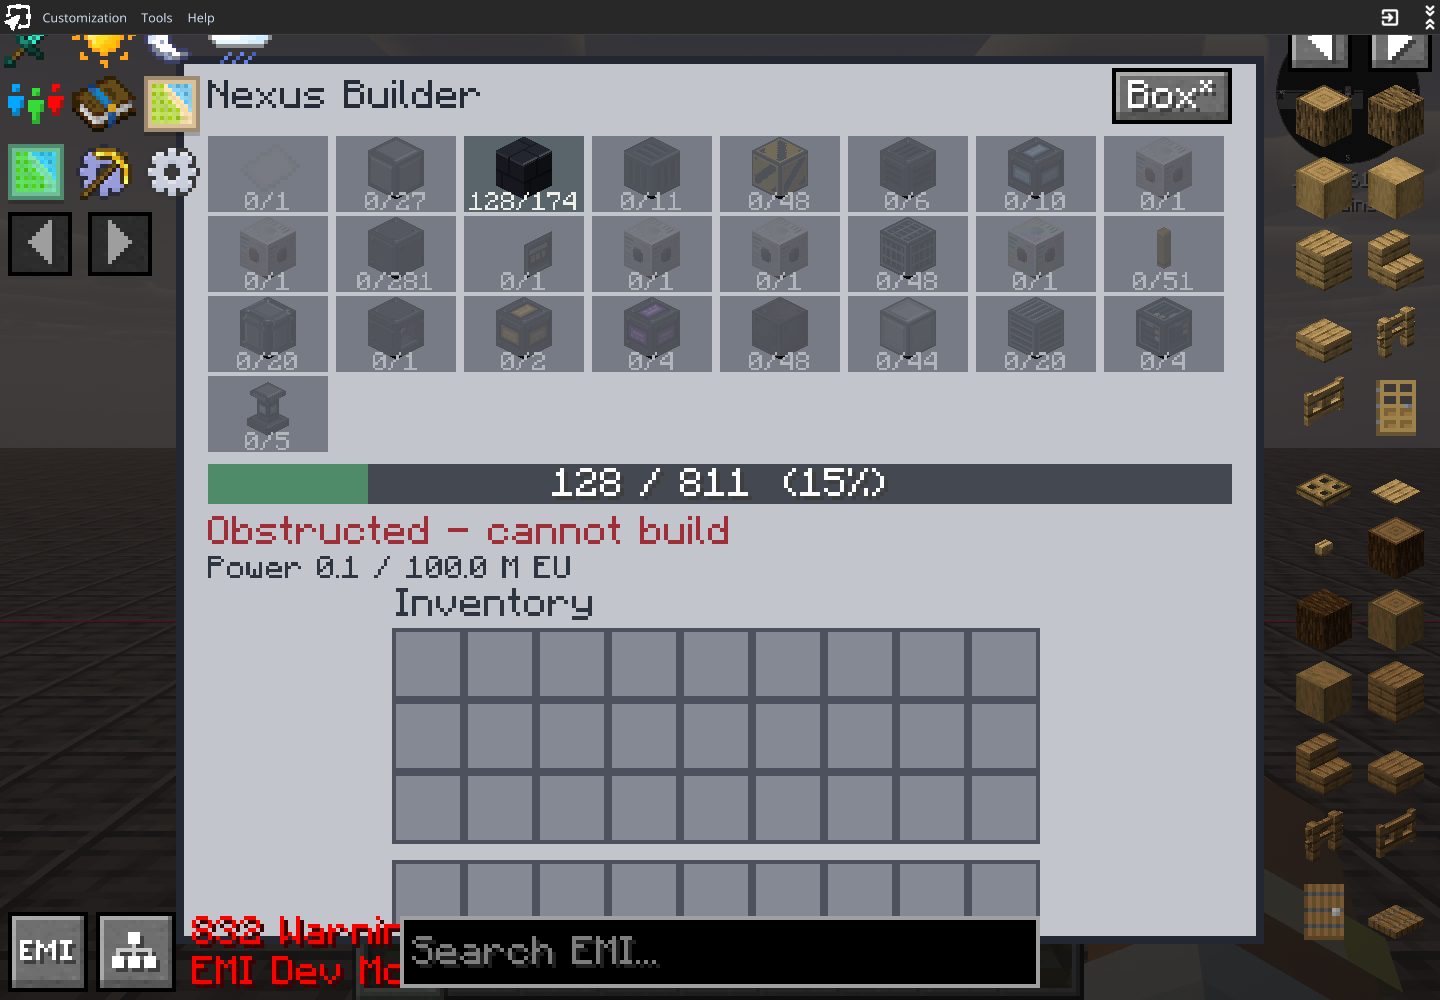
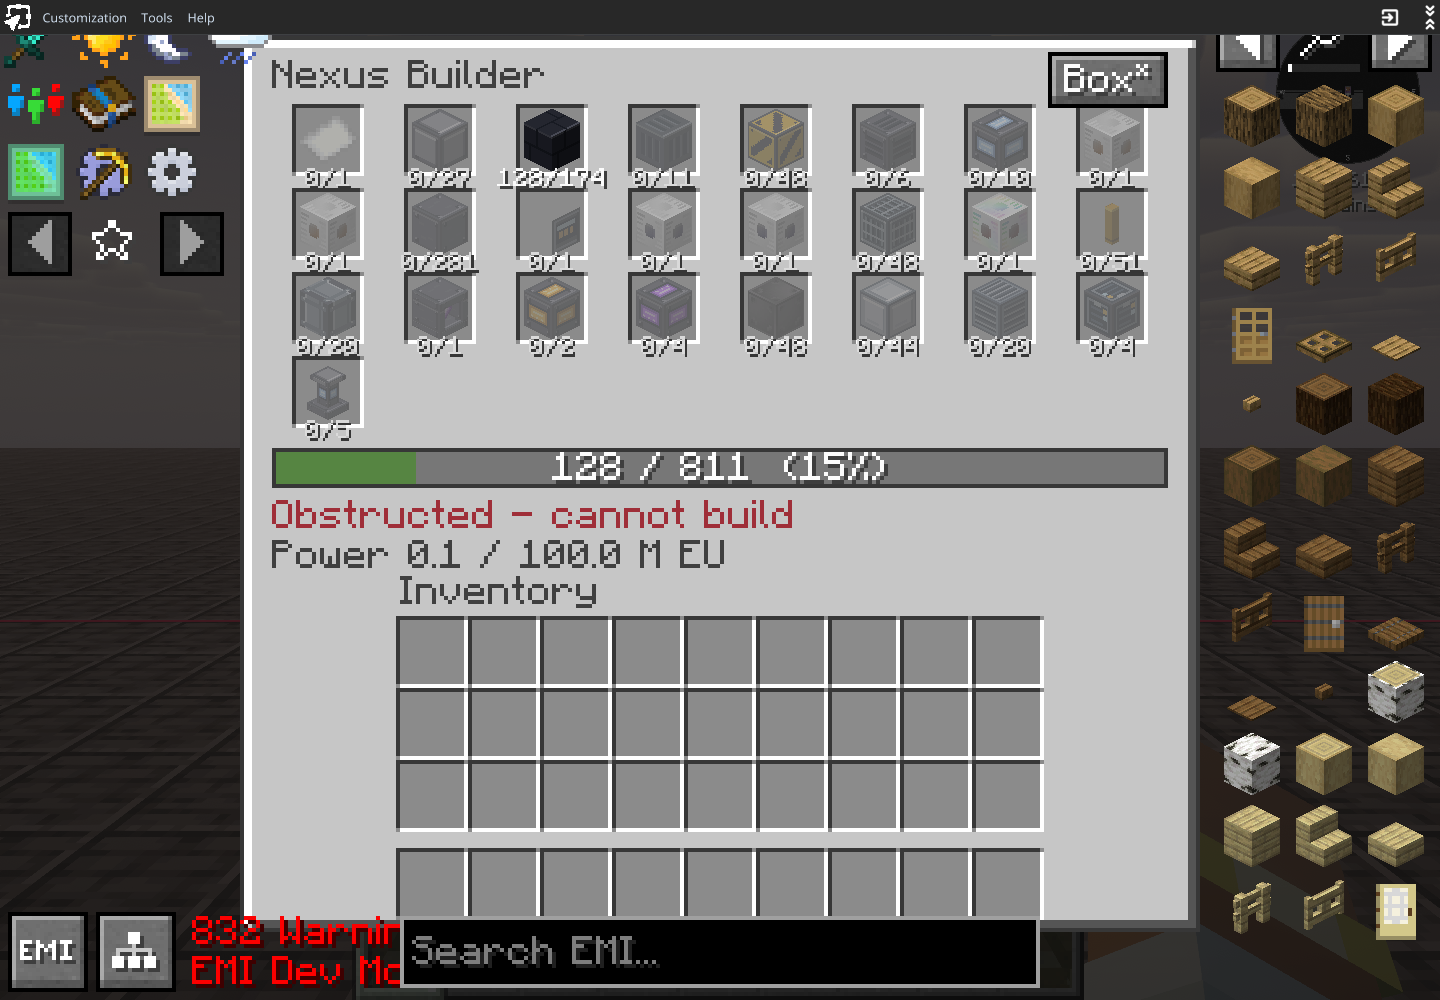
Style the Nexus Builder with vanilla inventory artwork

diff --git a/revoindustry/src/main/java/dk/revo/revoindustry/client/NexusBuilderScreen.java b/revoindustry/src/main/java/dk/revo/revoindustry/client/NexusBuilderScreen.java
@@ -1,9 +1,15 @@
 package dk.revo.revoindustry.client;
 
 import dk.revo.revoindustry.RevoIndustry;
-import dk.revo.revoindustry.nexus.*;
+import dk.revo.revoindustry.nexus.Nexus;
+import dk.revo.revoindustry.nexus.NexusBuilderMenu;
+import dk.revo.revoindustry.nexus.NexusConstruction;
+import dk.revo.revolib.client.VanillaMachineGui;
+import java.util.List;
+import java.util.Locale;
 import net.minecraft.client.gui.GuiGraphics;
-import net.minecraft.client.gui.components.*;
+import net.minecraft.client.gui.components.Button;
+import net.minecraft.client.gui.components.Tooltip;
 import net.minecraft.client.gui.screens.inventory.AbstractContainerScreen;
 import net.minecraft.network.chat.Component;
 import net.minecraft.world.entity.player.Inventory;
@@ -13,27 +19,138 @@ import net.neoforged.bus.api.SubscribeEvent;
 import net.neoforged.fml.common.EventBusSubscriber;
 import net.neoforged.neoforge.client.event.RegisterMenuScreensEvent;
 
-@EventBusSubscriber(modid=RevoIndustry.MOD_ID,bus=EventBusSubscriber.Bus.MOD,value=Dist.CLIENT)
+@EventBusSubscriber(modid = RevoIndustry.MOD_ID, bus = EventBusSubscriber.Bus.MOD, value = Dist.CLIENT)
 public final class NexusBuilderScreen extends AbstractContainerScreen<NexusBuilderMenu> {
- private Button build,preview;
- public NexusBuilderScreen(NexusBuilderMenu menu,Inventory inventory,Component title){super(menu,inventory,title);imageWidth=272;imageHeight=222;inventoryLabelX=55;inventoryLabelY=133;}
- @SubscribeEvent public static void screens(RegisterMenuScreensEvent e){e.register(Nexus.BUILDER_MENU.get(),NexusBuilderScreen::new);}
- @Override protected void init(){super.init();build=addRenderableWidget(Button.builder(Component.literal("Build"),b->minecraft.gameMode.handleInventoryButtonClick(menu.containerId,1)).bounds(leftPos+194,topPos+113,70,16).build());preview=addRenderableWidget(Button.builder(Component.literal("Box"),b->NexusBuilderOverlay.toggle(menu.pos)).bounds(leftPos+234,topPos+3,30,14).tooltip(Tooltip.create(Component.literal("Toggle the portal bounding box in the world"))).build());}
- private int cell(int x,int y){int col=(x-leftPos-8)/32,row=(y-topPos-20)/20;if(x<leftPos+8||x>=leftPos+264||y<topPos+20||y>=topPos+100||col<0||row<0)return -1;int i=row*8+col;return i<NexusConstruction.requirements().size()?i:-1;}
- @Override public boolean mouseClicked(double x,double y,int button){int i=cell((int)x,(int)y);if(i>=0&&(button==0||button==1)){minecraft.gameMode.handleInventoryButtonClick(menu.containerId,200+i);return true;}return super.mouseClicked(x,y,button);}
- @Override protected void renderBg(GuiGraphics g,float partial,int mx,int my){
-  g.fill(leftPos,topPos,leftPos+imageWidth,topPos+imageHeight,0xff232731);g.fill(leftPos+2,topPos+2,leftPos+270,topPos+220,0xffc3c5cc);
-  var needs=NexusConstruction.requirements();for(int i=0;i<needs.size();i++){
-   int x=leftPos+8+i%8*32,y=topPos+20+i/8*20;var need=needs.get(i);boolean filled=menu.stored(i)+menu.used(i)>0;g.fill(x,y,x+30,y+19,filled?0xff59656a:0xff777b85);
-   g.setColor(filled?1:.5f,filled?1:.5f,filled?1:.5f,filled?1:.3f);g.renderItem(new ItemStack(need.item()),x+7,y);g.flush();g.setColor(1,1,1,1);
-   if(!filled){g.pose().pushPose();g.pose().translate(0,0,250);g.fill(x+6,y,x+24,y+15,0xa0777b85);g.pose().popPose();}
-   String count=(menu.stored(i)+menu.used(i))+"/"+need.amount();g.pose().pushPose();g.pose().translate(x+15,y+14,300);g.pose().scale(.65f,.65f,1);g.drawString(font,count,-font.width(count)/2,0,filled?0xfff2f2ed:0xffb5b7bf,false);g.pose().popPose();
-  }
-  int total=menu.required(),supplied=menu.supplied(),width=256*supplied/Math.max(1,total);g.fill(leftPos+8,topPos+102,leftPos+264,topPos+112,0xff444851);g.fill(leftPos+8,topPos+102,leftPos+8+width,topPos+112,0xff4f8b69);String progress=supplied+" / "+total+"  ("+(100*supplied/Math.max(1,total))+"%)";g.drawCenteredString(font,progress,leftPos+136,topPos+103,0xffffffff);
-  String status=switch(menu.data.get(2)){case NexusConstruction.OBSTRUCTED->"Obstructed - cannot build";case NexusConstruction.UNLOADED->"Build area not loaded";case NexusConstruction.STRUCTURE->"Missing MI hatches";case NexusConstruction.PROGRAM->"Needs Construction Program";case NexusConstruction.MATERIALS->"Supply blueprint materials";case NexusConstruction.POWER->"Charge before building";case NexusConstruction.BUILDING->"Building "+(100*menu.data.get(0)/NexusConstruction.cells().size())+"%";case NexusConstruction.COMPLETE->"Construction complete";default->"Ready to build";};g.drawString(font,status,leftPos+8,topPos+115,menu.data.get(2)==NexusConstruction.OBSTRUCTED?0xffa12f39:0xff303641,false);
-  String power=String.format(java.util.Locale.ROOT,"Power %.1f / 100.0 M EU",menu.energy()/1_000_000d);g.pose().pushPose();g.pose().translate(leftPos+8,topPos+125,0);g.pose().scale(.8f,.8f,1);g.drawString(font,power,0,0,0xff303641,false);g.pose().popPose();
-  for(var slot:menu.slots){g.fill(leftPos+slot.x-1,topPos+slot.y-1,leftPos+slot.x+17,topPos+slot.y+17,0xff4d515d);g.fill(leftPos+slot.x,topPos+slot.y,leftPos+slot.x+16,topPos+slot.y+16,0xff858993);}
- }
- @Override protected void renderLabels(GuiGraphics g,int x,int y){g.drawString(font,title,8,6,0xff252c38,false);g.drawString(font,playerInventoryTitle,inventoryLabelX,inventoryLabelY,0xff303641,false);}
- @Override public void render(GuiGraphics g,int x,int y,float partial){build.visible=menu.supplied()==menu.required()&&menu.data.get(1)==0;build.active=menu.data.get(2)==NexusConstruction.READY;preview.setMessage(Component.literal(NexusBuilderOverlay.shown(menu.pos)?"Box*":"Box"));super.render(g,x,y,partial);renderTooltip(g,x,y);int i=cell(x,y);if(i>=0){var r=NexusConstruction.requirements().get(i);g.renderComponentTooltip(font,java.util.List.of(new ItemStack(r.item()).getHoverName(),Component.literal("Stored "+menu.stored(i)+" / "+r.amount()+" | Placed "+menu.used(i)),Component.literal("Deposit carried items; empty hand withdraws up to 64")),x,y);}}
+    private static final int LABEL = 0xff404040;
+    private static final int MATERIAL_X = 8;
+    private static final int MATERIAL_Y = 17;
+    private static final int COLUMNS = 8;
+    private static final int CELL_WIDTH = 28;
+    private static final int CELL_HEIGHT = 21;
+    private Button build;
+    private Button preview;
+
+    public NexusBuilderScreen(NexusBuilderMenu menu, Inventory inventory, Component title) {
+        super(menu, inventory, title);
+        imageWidth = NexusBuilderMenu.WIDTH;
+        imageHeight = NexusBuilderMenu.HEIGHT;
+        inventoryLabelX = NexusBuilderMenu.INVENTORY_X;
+        inventoryLabelY = NexusBuilderMenu.INVENTORY_Y - 11;
+    }
+
+    @SubscribeEvent
+    public static void screens(RegisterMenuScreensEvent event) {
+        event.register(Nexus.BUILDER_MENU.get(), NexusBuilderScreen::new);
+    }
+
+    @Override
+    protected void init() {
+        super.init();
+        // Leave room for the recipe viewer's bottom search bar at large GUI scales.
+        topPos = Math.max(9, topPos - 4);
+        build = addRenderableWidget(Button.builder(Component.literal("Build"),
+                button -> minecraft.gameMode.handleInventoryButtonClick(menu.containerId, 1))
+            .bounds(leftPos + imageWidth - 68, topPos + 114, 60, 17).build());
+        preview = addRenderableWidget(Button.builder(Component.literal("Box"),
+                button -> NexusBuilderOverlay.toggle(menu.pos))
+            .bounds(leftPos + imageWidth - 38, topPos + 4, 30, 14)
+            .tooltip(Tooltip.create(Component.literal("Toggle the portal bounding box in the world"))).build());
+    }
+
+    private int cell(int x, int y) {
+        int localX = x - leftPos - MATERIAL_X;
+        int localY = y - topPos - MATERIAL_Y;
+        if (localX < 0 || localX >= COLUMNS * CELL_WIDTH || localY < 0 || localY >= 4 * CELL_HEIGHT) return -1;
+        int index = localY / CELL_HEIGHT * COLUMNS + localX / CELL_WIDTH;
+        return index < NexusConstruction.requirements().size() ? index : -1;
+    }
+
+    @Override
+    public boolean mouseClicked(double x, double y, int button) {
+        int index = cell((int) x, (int) y);
+        if (index >= 0 && (button == 0 || button == 1)) {
+            minecraft.gameMode.handleInventoryButtonClick(menu.containerId, 200 + index);
+            return true;
+        }
+        return super.mouseClicked(x, y, button);
+    }
+
+    @Override
+    protected void renderBg(GuiGraphics graphics, float partial, int mouseX, int mouseY) {
+        VanillaMachineGui.panel(graphics, leftPos, topPos, imageWidth, imageHeight);
+        for (var slot : menu.slots) VanillaMachineGui.slot(graphics, leftPos + slot.x, topPos + slot.y);
+
+        var requirements = NexusConstruction.requirements();
+        for (int i = 0; i < requirements.size(); i++) {
+            var requirement = requirements.get(i);
+            int x = leftPos + MATERIAL_X + i % COLUMNS * CELL_WIDTH + 6;
+            int y = topPos + MATERIAL_Y + i / COLUMNS * CELL_HEIGHT + 1;
+            int supplied = menu.stored(i) + menu.used(i);
+            VanillaMachineGui.slot(graphics, x, y);
+            graphics.renderItem(new ItemStack(requirement.item()), x, y);
+
+            graphics.pose().pushPose();
+            graphics.pose().translate(0, 0, 250);
+            if (supplied == 0) graphics.fill(x, y, x + 16, y + 16, 0xaa8b8b8b);
+            graphics.pose().translate(x + 8, y + 15, 1);
+            graphics.pose().scale(.65f, .65f, 1);
+            String count = supplied + "/" + requirement.amount();
+            graphics.drawString(font, count, -font.width(count) / 2, 0,
+                supplied == 0 ? 0xffdddddd : 0xffffffff, true);
+            graphics.pose().popPose();
+        }
+
+        int total = menu.required();
+        int supplied = menu.supplied();
+        int width = imageWidth - 16;
+        int x = leftPos + 8;
+        int y = topPos + 103;
+        graphics.fill(x, y, x + width, y + 10, 0xff373737);
+        graphics.fill(x + 1, y + 1, x + width - 1, y + 9, 0xff777777);
+        graphics.fill(x + 1, y + 1, x + 1 + (width - 2) * supplied / total, y + 9, 0xff568542);
+        String progress = supplied + " / " + total + "  (" + (100 * supplied / total) + "%)";
+        graphics.drawCenteredString(font, progress, leftPos + imageWidth / 2, y + 1, 0xffffffff);
+    }
+
+    private String status(int state) {
+        return switch (state) {
+            case NexusConstruction.OBSTRUCTED -> "Obstructed - cannot build";
+            case NexusConstruction.UNLOADED -> "Build area not loaded";
+            case NexusConstruction.STRUCTURE -> "Missing MI hatches";
+            case NexusConstruction.PROGRAM -> "Needs Construction Program";
+            case NexusConstruction.MATERIALS -> "Supply blueprint materials";
+            case NexusConstruction.POWER -> "Charge before building";
+            case NexusConstruction.BUILDING -> "Building " + (100 * menu.data.get(0) / NexusConstruction.cells().size()) + "%";
+            case NexusConstruction.COMPLETE -> "Construction complete";
+            default -> "Ready to build";
+        };
+    }
+
+    @Override
+    protected void renderLabels(GuiGraphics graphics, int mouseX, int mouseY) {
+        graphics.drawString(font, title, 8, 6, LABEL, false);
+        int state = menu.data.get(2);
+        graphics.drawString(font, status(state), 8, 116,
+            state == NexusConstruction.OBSTRUCTED ? 0xffa12f39 : LABEL, false);
+        String power = String.format(Locale.ROOT, "Power %.1f / %.1f M EU",
+            menu.energy() / 1_000_000d, NexusConstruction.ENERGY_COST / 1_000_000d);
+        graphics.drawString(font, power, 8, 126, LABEL, false);
+        graphics.drawString(font, playerInventoryTitle, inventoryLabelX, inventoryLabelY, LABEL, false);
+    }
+
+    @Override
+    public void render(GuiGraphics graphics, int x, int y, float partial) {
+        build.visible = menu.supplied() == menu.required() && menu.data.get(1) == 0;
+        build.active = menu.data.get(2) == NexusConstruction.READY;
+        preview.setMessage(Component.literal(NexusBuilderOverlay.shown(menu.pos) ? "Box*" : "Box"));
+        super.render(graphics, x, y, partial);
+        renderTooltip(graphics, x, y);
+        int i = cell(x, y);
+        if (i >= 0) {
+            var requirement = NexusConstruction.requirements().get(i);
+            graphics.renderComponentTooltip(font, List.of(new ItemStack(requirement.item()).getHoverName(),
+                Component.literal("Stored " + menu.stored(i) + " / " + requirement.amount() + " | Placed " + menu.used(i)),
+                Component.literal("Deposit carried items or click with an empty cursor to withdraw up to 64")), x, y);
+        }
+    }
 }

diff --git a/revoindustry/src/main/java/dk/revo/revoindustry/nexus/NexusBuilderMenu.java b/revoindustry/src/main/java/dk/revo/revoindustry/nexus/NexusBuilderMenu.java
@@ -7,6 +7,8 @@ import net.minecraft.world.item.ItemStack;
 
 /** Ghost cells are material counters; vanilla player slots remain ordinary inventory slots. */
 public final class NexusBuilderMenu extends AbstractContainerMenu {
+ public static final int WIDTH = 240, HEIGHT = 224;
+ public static final int INVENTORY_X = (WIDTH - 176) / 2 + 8, INVENTORY_Y = 146;
  public final NexusMachine machine;
  public final BlockPos pos;
  public final ContainerData data;
@@ -15,7 +17,7 @@ public final class NexusBuilderMenu extends AbstractContainerMenu {
  private NexusBuilderMenu(int id,Inventory inv,NexusMachine machine,BlockPos pos){
   super(Nexus.BUILDER_MENU.get(),id);this.machine=machine;this.pos=pos;int n=NexusConstruction.requirements().size();int size=5+2*n;
   data=machine==null||inv.player.level().isClientSide?new SimpleContainerData(size):new ContainerData(){public int get(int i){var c=machine.construction;return switch(i){case 0->c.cursor();case 1->c.started()?1:0;case 2->c.status();case 3->(int)(c.energy()&65535);case 4->(int)(c.energy()>>>16)&65535;default->i<5+n?c.stored(i-5):c.used(i-5-n);};}public void set(int i,int v){}public int getCount(){return size;}};addDataSlots(data);
-  for(int y=0;y<3;y++)for(int x=0;x<9;x++)addSlot(new Slot(inv,9+x+9*y,55+18*x,144+18*y));for(int x=0;x<9;x++)addSlot(new Slot(inv,x,55+18*x,202));
+  for(int y=0;y<3;y++)for(int x=0;x<9;x++)addSlot(new Slot(inv,9+x+9*y,INVENTORY_X+18*x,INVENTORY_Y+18*y));for(int x=0;x<9;x++)addSlot(new Slot(inv,x,INVENTORY_X+18*x,INVENTORY_Y+58));
  }
  public int stored(int i){return data.get(5+i);}public int used(int i){return data.get(5+NexusConstruction.requirements().size()+i);}
  public long energy(){return (data.get(3)&65535L)|((data.get(4)&65535L)<<16);}

diff --git a/scripts/package_modpack.py b/scripts/package_modpack.py
@@ -20,10 +20,10 @@ def main():
     assert hashlib.sha512(data).hexdigest()==shader['sha512']
     files.append({'path':'shaderpacks/'+shader['file'],'hashes':{'sha512':shader['sha512'],'sha1':hashlib.sha1(data).hexdigest()},
         'env':{'client':'required','server':'unsupported'},'downloads':[shader['url']],'fileSize':len(data)})
-    index={'formatVersion':1,'game':'minecraft','versionId':'0.1.42-dev-nexus',
+    index={'formatVersion':1,'game':'minecraft','versionId':'0.1.43-dev-nexus-ui',
         'name':'Rassers Revolution: Sky Edition','summary':"Nexus survival progression, native MI production, an embedded portal builder and the Nexus quest chapter.",
         'files':files,'dependencies':{'minecraft':'1.21.1','neoforge':'21.1.265'}}
-    output=ROOT.parent/'Rassers-Revolution-Sky-Edition-0.1.42-dev.mrpack'
+    output=ROOT.parent/'Rassers-Revolution-Sky-Edition-0.1.43-dev.mrpack'
     jars=sorted((ROOT/'build/mods').glob('*.jar'))
     assert len(jars)==7
     assert (ROOT/'pack/overrides/config/fancymenu/assets/skyblock_loop.mp4').stat().st_size>1_000_000
